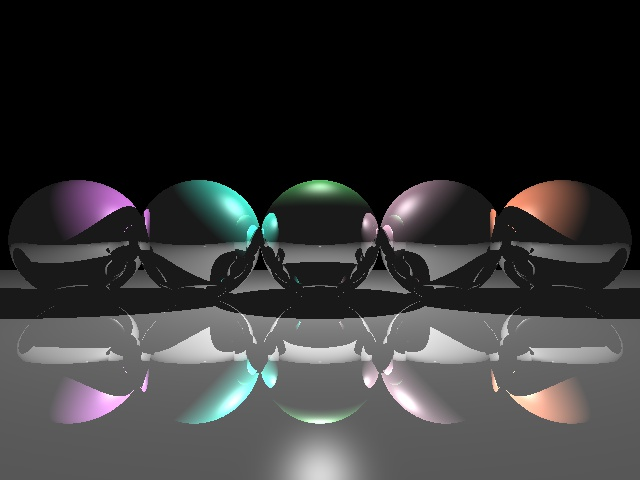
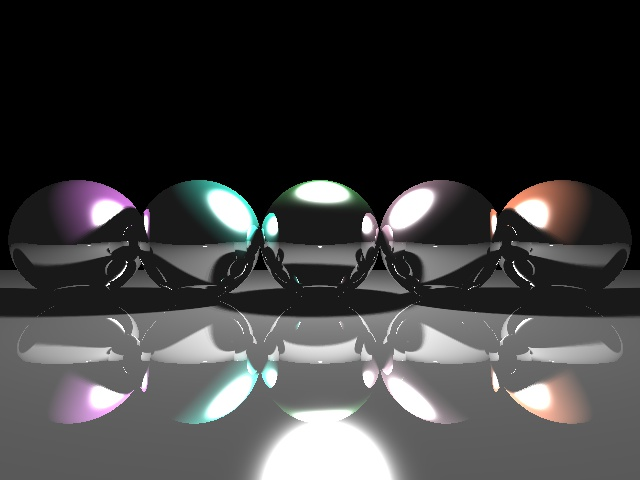
temp soft shadows

diff --git a/assignment-3/hw3-starterCode/hw3.cpp b/assignment-3/hw3-starterCode/hw3.cpp
@@ -153,10 +153,31 @@ bool useSSAA = false;
 int SSAA_level = 3;
 
 
+void ext(vec3 from, double array[3]) {
+	array[0] = from.x;
+	array[1] = from.y;
+	array[2] = from.z;
+}
+double RandomValue() {
+	return (float)rand() / RAND_MAX;
+}
 
-
-
+int SUB_LIGHTS = 30;
 void draw_scene() {
+	int origin_light_num = num_lights;
+
+	for (int i = 0; i < origin_light_num; i++) {
+		vec3 color = toVec3(lights[i].color) * (1.0f / SUB_LIGHTS);
+		vec3 center = toVec3(lights[i].position);
+
+		ext(color, lights[i].color);
+		for (int j = 0; j < (SUB_LIGHTS - 1); j++) {
+			ext(color, lights[num_lights].color);
+			ext(vec3(center.x + RandomValue(), center.y + RandomValue(), center.z + RandomValue()), lights[num_lights].position);
+			num_lights++;
+		}
+	}
+
 	// calculate pixel start position, which is at x = -1, y = -1 (outside of the image).
 	vec3 startPosition;
 	startPosition.z = -1;
